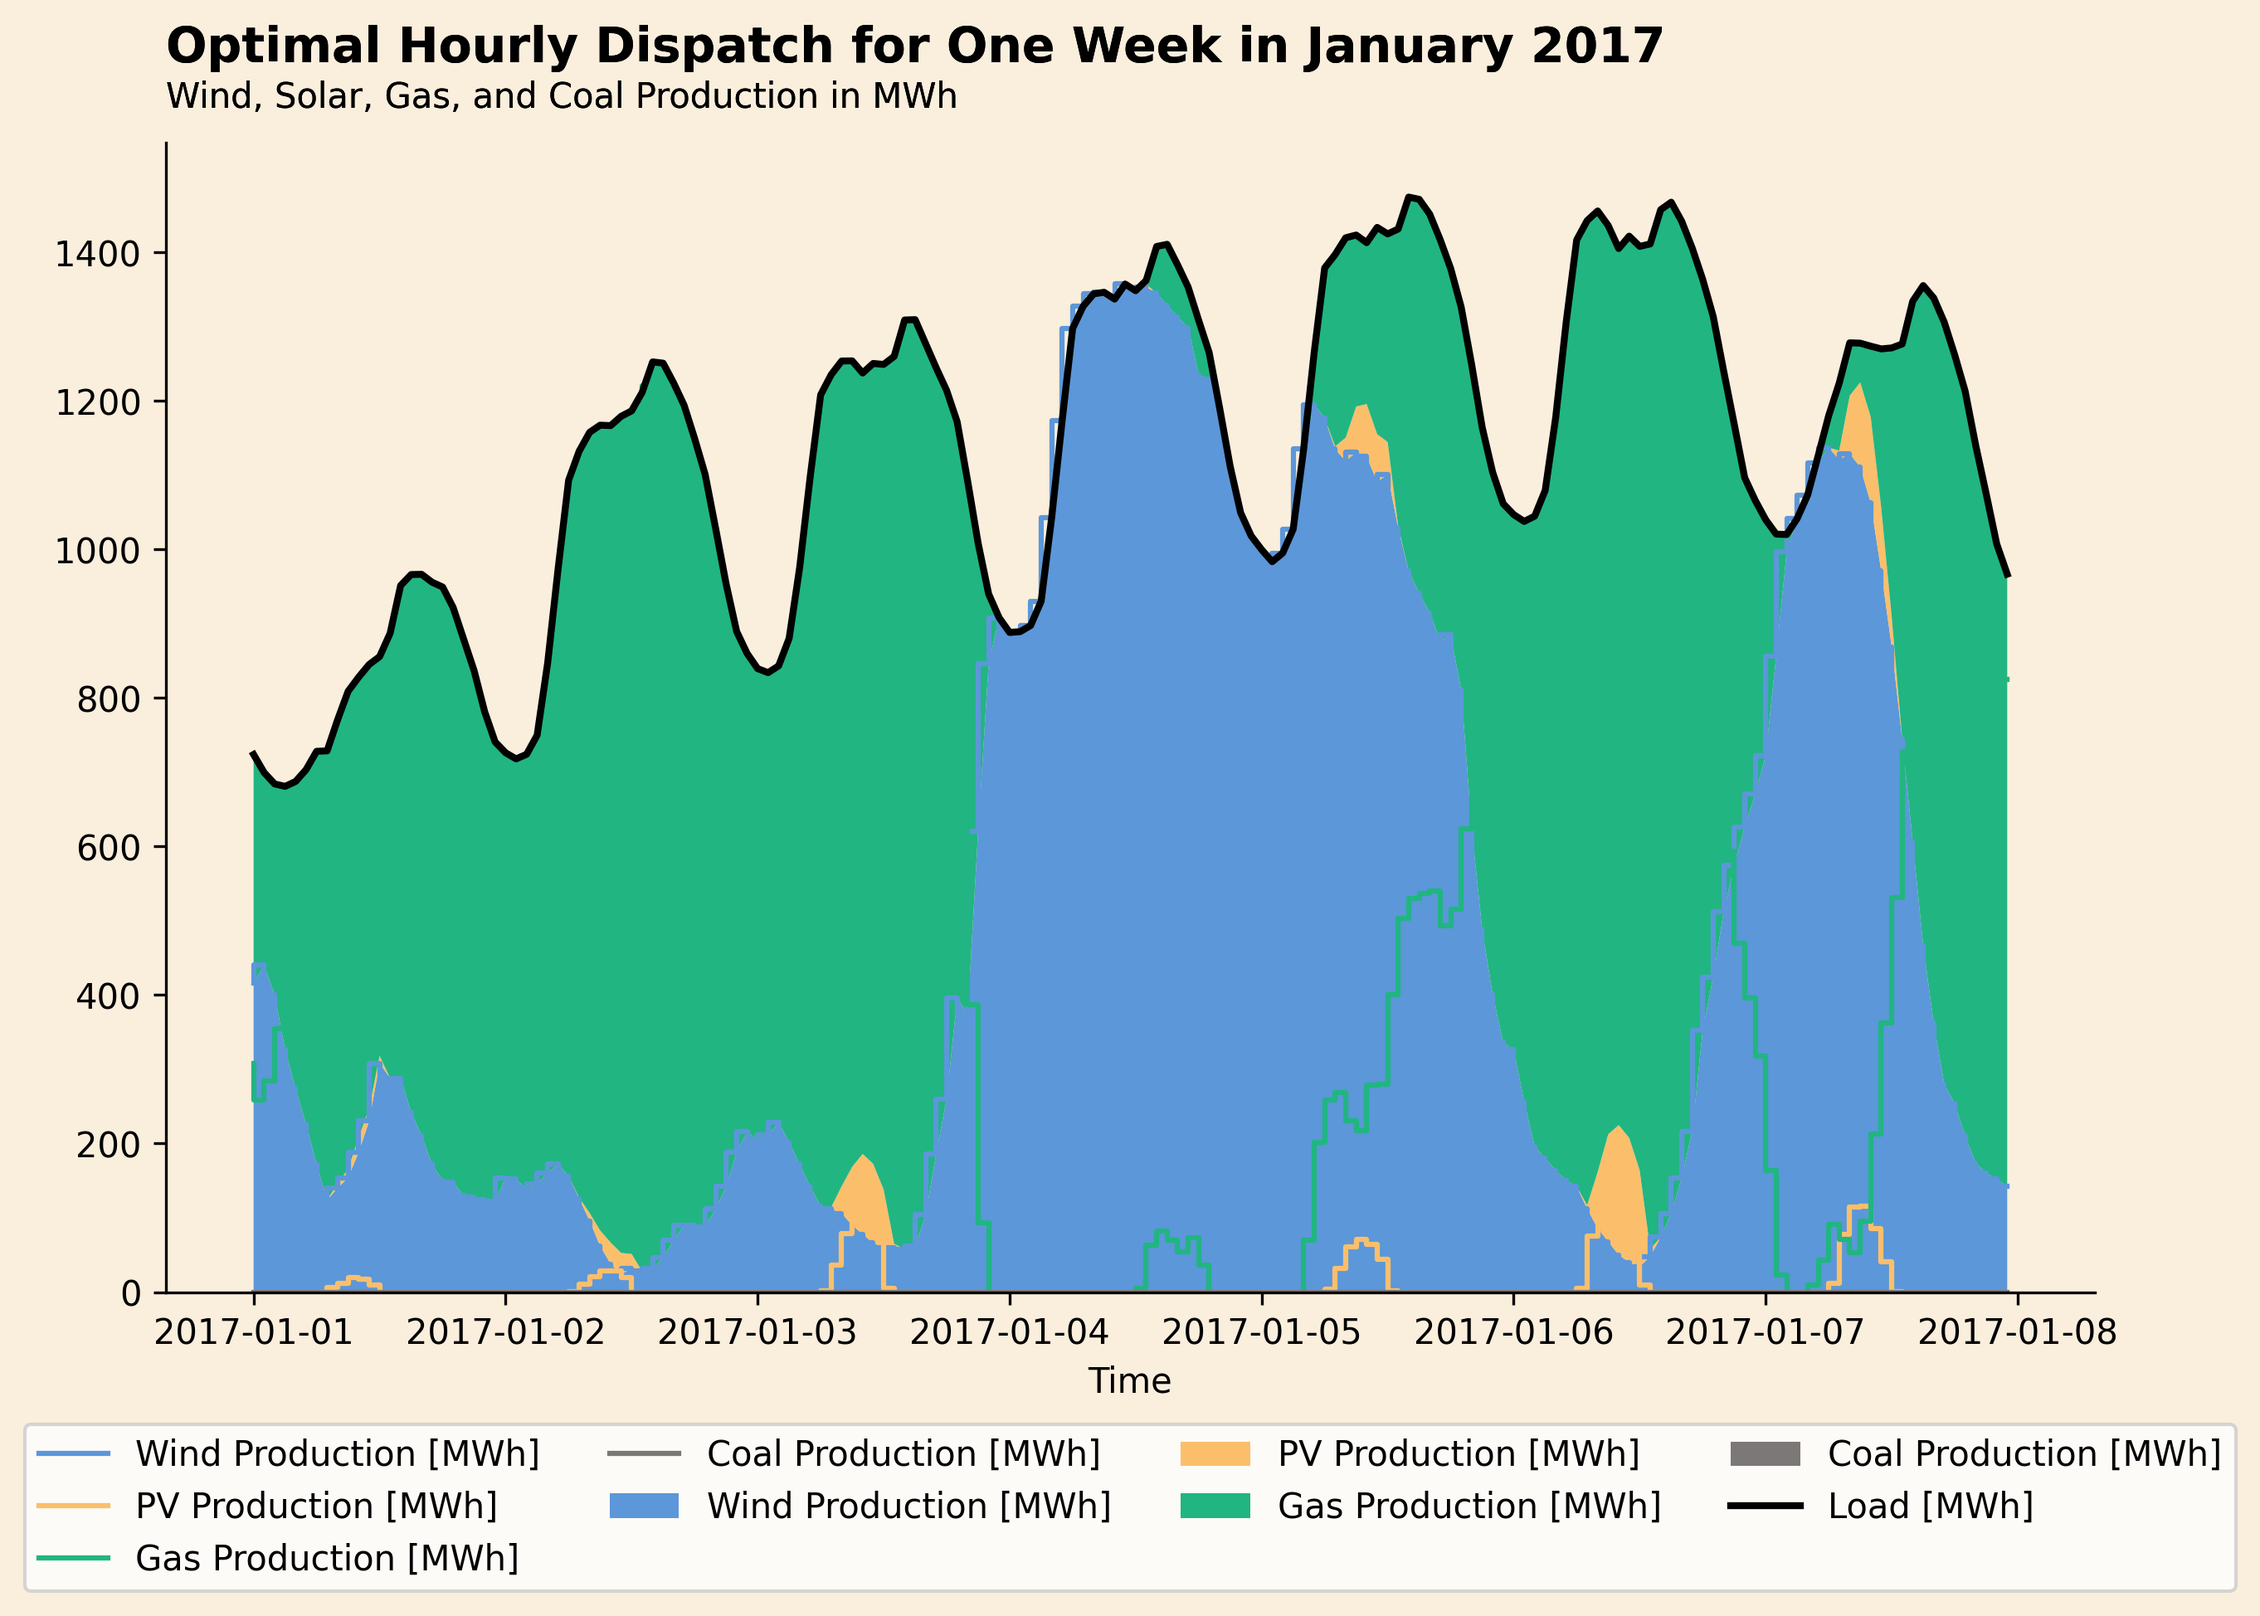
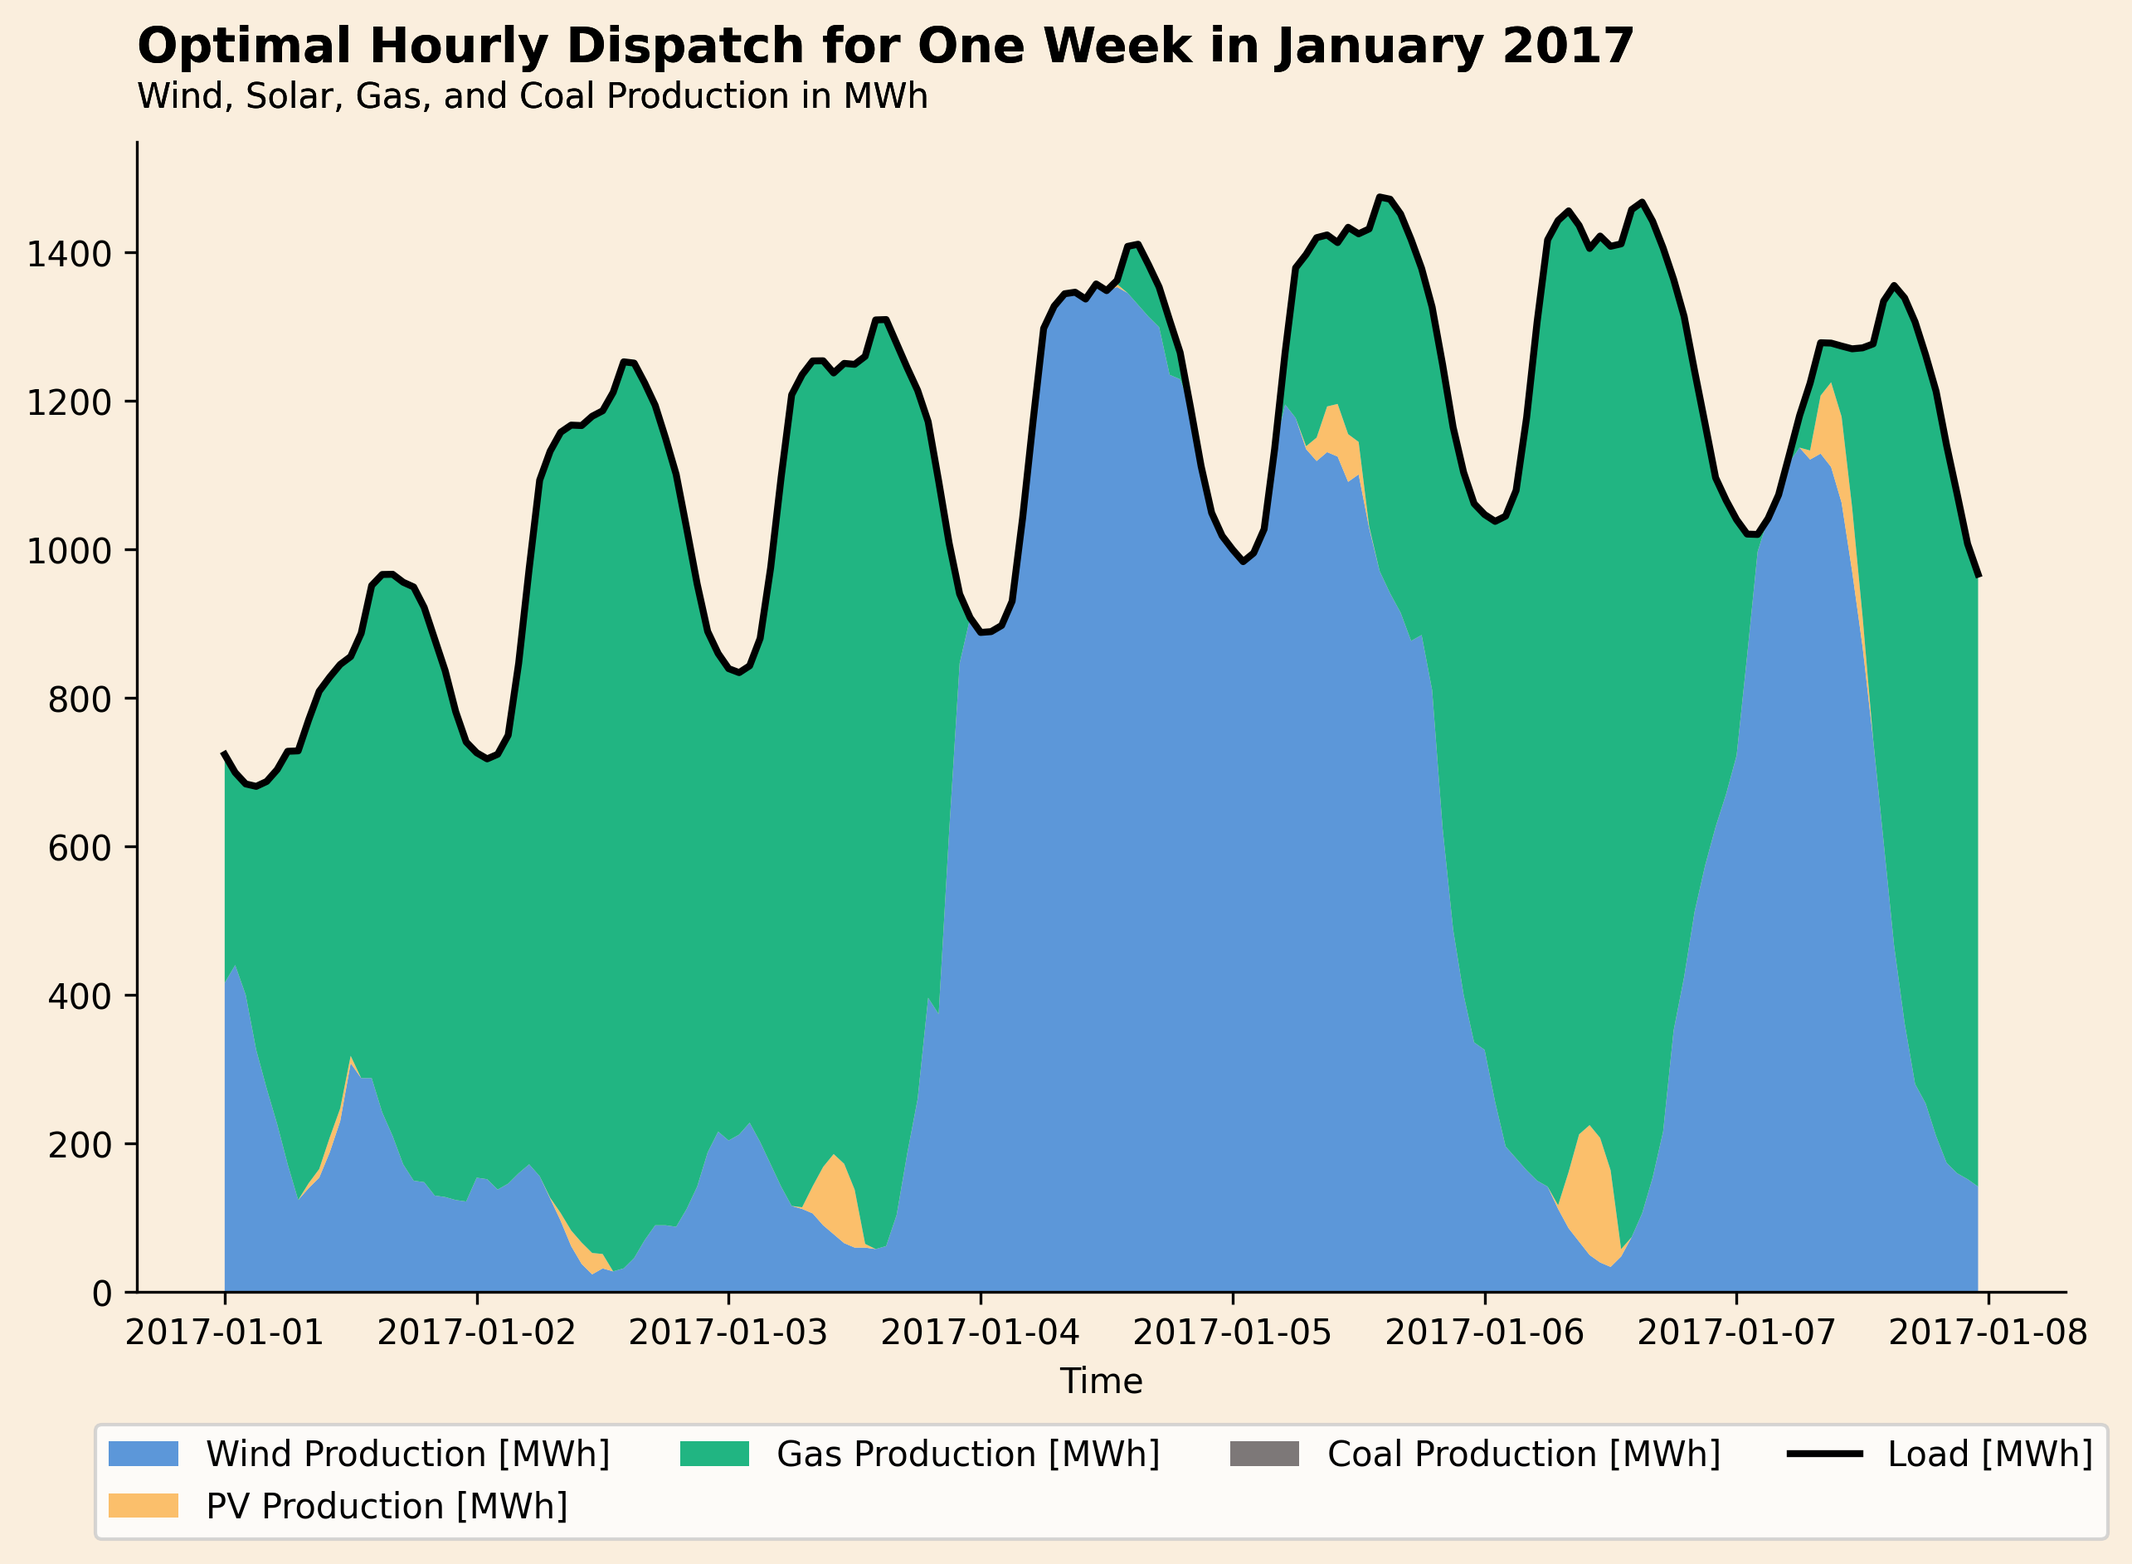
dispatch plot without steps - just stacked

diff --git a/plotter.py b/plotter.py
@@ -38,10 +38,10 @@ def plot_dispatch(time_index, df, load, title, show=False, save=True):
     fig.patch.set_facecolor(background_color)
     ax.set_facecolor(background_color)
 
-    ax.step(time_index, df["Wind Generator"], label="Wind Production [MWh]", color=colors[13])
-    ax.step(time_index, df["Solar Generator"], label="PV Production [MWh]", color=colors[12])
-    ax.step(time_index, df["OCGT"], label="Gas Production [MWh]", color=colors[14])
-    ax.step(time_index, df["Coal"], label="Coal Production [MWh]", color=colors[15])
+    #ax.step(time_index, df["Wind Generator"], label="Wind Production [MWh]", color=colors[13])
+    #ax.step(time_index, df["Solar Generator"], label="PV Production [MWh]", color=colors[12])
+    #ax.step(time_index, df["OCGT"], label="Gas Production [MWh]", color=colors[14])
+    #ax.step(time_index, df["Coal"], label="Coal Production [MWh]", color=colors[15])
 
     ax.set_xlabel("Time")
     ax.text(0.0, 1.07, title, transform=ax.transAxes, fontsize=14,
